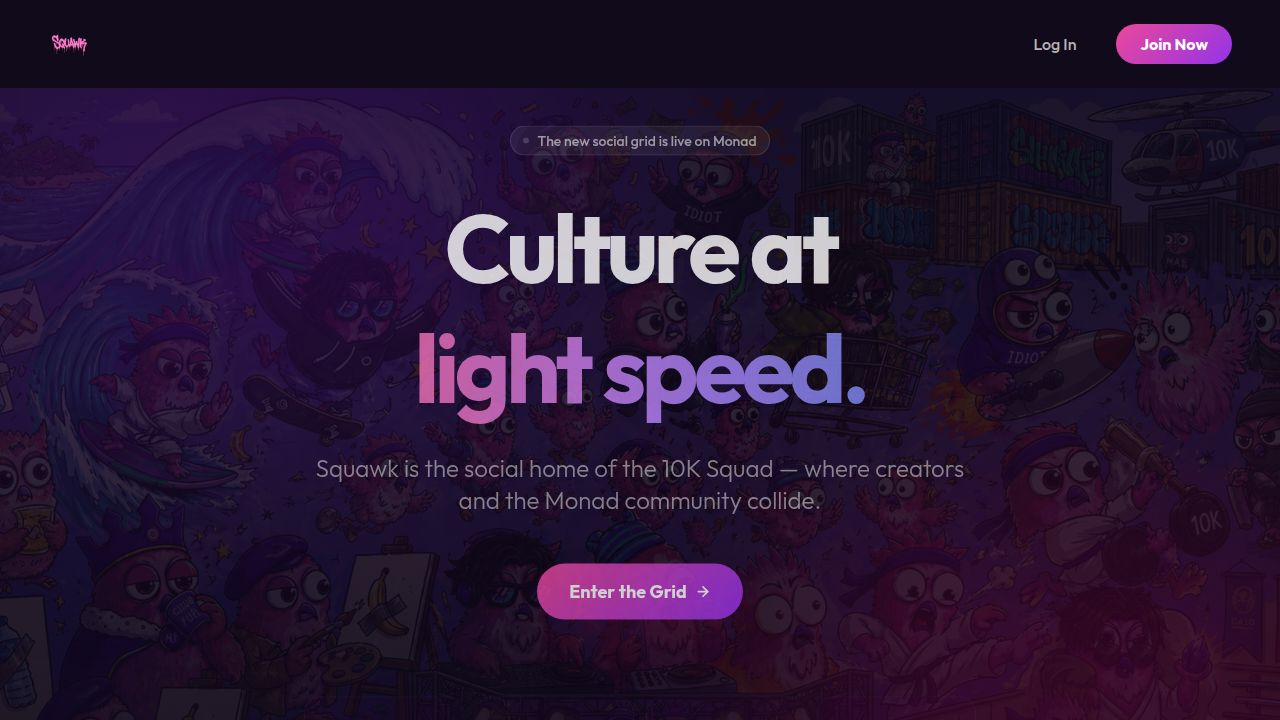
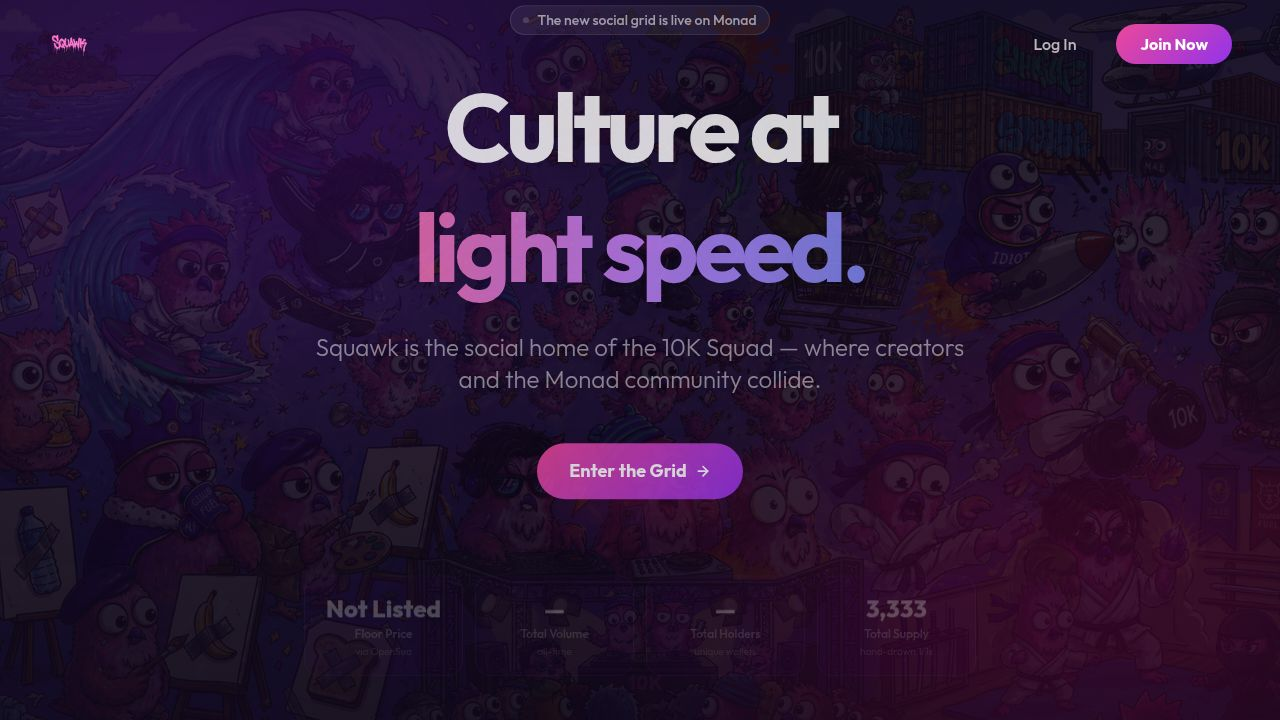
Improve error handling and user experience on login and loading screens
Refactor authentication to catch database errors, enhance AuthGuard with a retry mechanism for non-404 errors, and reduce splash screen duration.

Replit-Commit-Author: Agent
Replit-Commit-Session-Id: d72c53ad-3129-4618-b89b-5a2796021887
Replit-Commit-Checkpoint-Type: full_checkpoint
Replit-Commit-Event-Id: 7938f758-2f10-4c51-9643-5493e963ef1d
Replit-Commit-Screenshot-Url: https://storage.googleapis.com/screenshot-production-us-central1/726992d5-eed3-4495-9fd0-e40ed73d5161/d72c53ad-3129-4618-b89b-5a2796021887/PYZtvWZ
Replit-Helium-Checkpoint-Created: true

diff --git a/artifacts/squawk/src/pages/LandingPage.tsx b/artifacts/squawk/src/pages/LandingPage.tsx
@@ -137,21 +137,21 @@ export default function LandingPage() {
   return (
     <div className="min-h-[100dvh] bg-background text-foreground overflow-x-hidden flex flex-col relative dark">
 
-      {/* ── Nav ─────────────────────────────────────────────────────── */}
-      <nav className="w-full flex items-center justify-between p-6 md:px-12 relative z-20 bg-transparent">
-        <img src={`${BASE}/logo.png`} alt="Squawk" className="h-10 w-auto" />
-        <div className="flex gap-4 items-center">
-          <Link href="/sign-in" className="px-6 py-2 rounded-full font-medium text-white/70 hover:text-white hover:bg-white/5 transition-colors">
-            Log In
-          </Link>
-          <Link href="/sign-up" className="px-6 py-2 rounded-full font-bold text-white transition-all hover:scale-105 hover:shadow-[0_0_24px_4px_rgba(219,39,119,0.35)]" style={{ background: "linear-gradient(135deg, #ec4899, #9333ea)" }}>
-            Join Now
-          </Link>
-        </div>
-      </nav>
+      {/* ── Hero (nav lives inside so it overlays the banner image) ─── */}
+      <section className="relative flex flex-col items-center justify-center text-center px-4 pb-20 z-10 min-h-screen overflow-hidden">
 
-      {/* ── Hero ─────────────────────────────────────────────────────── */}
-      <section className="relative flex flex-col items-center justify-center text-center px-4 pt-8 pb-20 z-10 min-h-[88vh] overflow-hidden">
+        {/* Transparent nav — floats over the NFT banner */}
+        <nav className="absolute top-0 left-0 right-0 flex items-center justify-between p-6 md:px-12 z-20">
+          <img src={`${BASE}/logo.png`} alt="Squawk" className="h-10 w-auto" />
+          <div className="flex gap-4 items-center">
+            <Link href="/sign-in" className="px-6 py-2 rounded-full font-medium text-white/70 hover:text-white hover:bg-white/5 transition-colors">
+              Log In
+            </Link>
+            <Link href="/sign-up" className="px-6 py-2 rounded-full font-bold text-white transition-all hover:scale-105 hover:shadow-[0_0_24px_4px_rgba(219,39,119,0.35)]" style={{ background: "linear-gradient(135deg, #ec4899, #9333ea)" }}>
+              Join Now
+            </Link>
+          </div>
+        </nav>
 
         <div className="absolute inset-0 z-0">
           <img

diff --git a/artifacts/squawk/src/App.tsx b/artifacts/squawk/src/App.tsx
@@ -143,16 +143,40 @@ function ClerkQueryClientCacheInvalidator() {
 
 function AuthGuard({ children }: { children: React.ReactNode }) {
   const { isLoaded, isSignedIn } = useUser();
-  const { data: me, isLoading, error } = useGetMe({ query: { enabled: isSignedIn, retry: false } });
-  
+  const { data: me, isLoading, error, refetch } = useGetMe({ query: { enabled: !!isSignedIn, retry: false } });
+
+  // Still initialising Clerk or waiting for the first /api/users/me response
   if (!isLoaded || (isSignedIn && isLoading)) {
-    return <div className="min-h-screen bg-background flex items-center justify-center">
-      <div className="w-12 h-12 rounded-full border-4 border-primary/30 border-t-primary animate-spin" />
-    </div>;
+    return (
+      <div className="min-h-screen bg-background flex items-center justify-center">
+        <div className="w-12 h-12 rounded-full border-4 border-primary/30 border-t-primary animate-spin" />
+      </div>
+    );
   }
 
+  // No profile yet → onboarding
   if (isSignedIn && error && (error as any)?.status === 404) {
     return <OnboardingPage />;
+  }
+
+  // Server/DB error (503 / 500) → show a retry screen instead of a blank page
+  if (isSignedIn && error && (error as any)?.status !== 404) {
+    return (
+      <div className="min-h-screen bg-background flex flex-col items-center justify-center gap-4 p-4 text-center dark">
+        <div className="text-4xl">🦜</div>
+        <h2 className="text-xl font-bold text-foreground">Connection hiccup</h2>
+        <p className="text-muted-foreground text-sm max-w-xs">
+          Couldn't reach the server. Check your connection and try again.
+        </p>
+        <button
+          onClick={() => refetch()}
+          className="mt-2 px-6 py-2.5 rounded-full font-semibold text-white text-sm"
+          style={{ background: "linear-gradient(135deg, #ec4899, #9333ea)" }}
+        >
+          Retry
+        </button>
+      </div>
+    );
   }
 
   return <>{children}</>;

diff --git a/artifacts/api-server/src/lib/auth.ts b/artifacts/api-server/src/lib/auth.ts
@@ -15,8 +15,13 @@ export function requireAuth(req: Request, res: Response, next: NextFunction): vo
 }
 
 export async function resolveUser(clerkId: string) {
-  const [user] = await db.select().from(usersTable).where(eq(usersTable.clerkId, clerkId));
-  return user ?? null;
+  try {
+    const [user] = await db.select().from(usersTable).where(eq(usersTable.clerkId, clerkId));
+    return user ?? null;
+  } catch (err) {
+    console.error("resolveUser DB error:", err);
+    throw err;
+  }
 }
 
 export async function requireUser(req: Request, res: Response, next: NextFunction): Promise<void> {
@@ -26,11 +31,16 @@ export async function requireUser(req: Request, res: Response, next: NextFunctio
     res.status(401).json({ error: "Unauthorized" });
     return;
   }
-  const user = await resolveUser(clerkId);
-  if (!user) {
-    res.status(404).json({ error: "User not found — complete onboarding first" });
-    return;
+  try {
+    const user = await resolveUser(clerkId);
+    if (!user) {
+      res.status(404).json({ error: "User not found — complete onboarding first" });
+      return;
+    }
+    (req as any).currentUser = user;
+    next();
+  } catch (err) {
+    console.error("requireUser error:", err);
+    res.status(503).json({ error: "Service temporarily unavailable — please retry" });
   }
-  (req as any).currentUser = user;
-  next();
 }

diff --git a/artifacts/squawk/src/components/SplashScreen.tsx b/artifacts/squawk/src/components/SplashScreen.tsx
@@ -9,7 +9,7 @@ interface SplashScreenProps {
 
 export default function SplashScreen({ onComplete }: SplashScreenProps) {
   useEffect(() => {
-    const t = setTimeout(onComplete, 5000);
+    const t = setTimeout(onComplete, 1800);
     return () => clearTimeout(t);
   }, [onComplete]);
 
